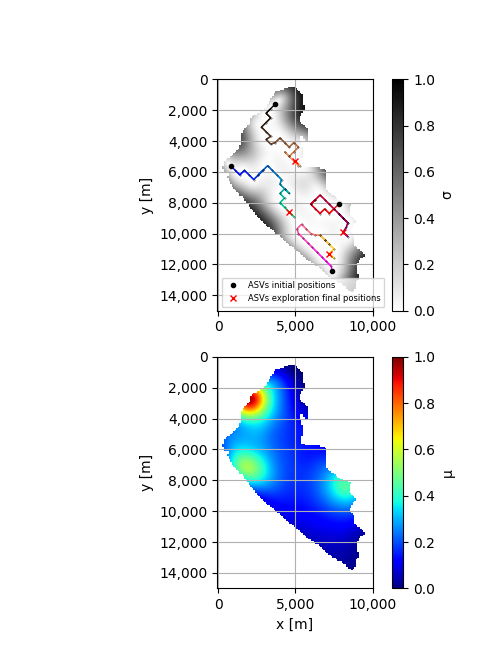
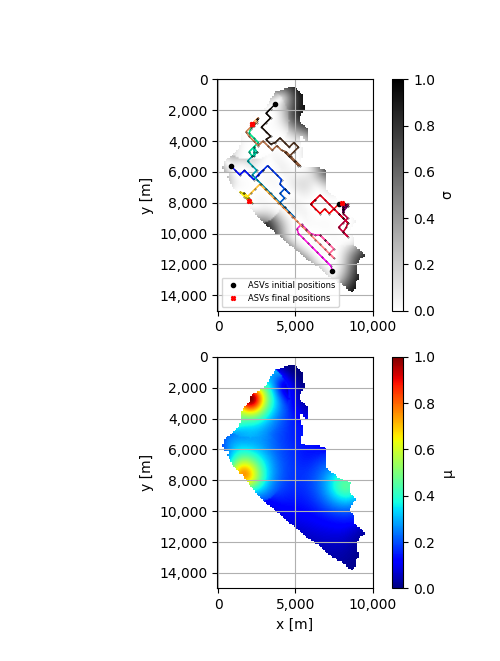
final model

diff --git a/PSO/pso_function.py b/PSO/pso_function.py
@@ -45,8 +45,9 @@ class PSOEnvironment(gym.Env):
 
     def __init__(self, resolution, ys, method, initial_seed, initial_position, vehicles=4, exploration_distance=100,
                  exploitation_distance=200, reward_function='mse', behavioral_method=0, type_error='all_map',
-                 stage="exploration"):
+                 stage='exploration', final_model='samples'):
         self.type_error = type_error
+        self.final_model = final_model
         self.exploration_distance = exploration_distance
         self.exploitation_distance = exploitation_distance
         self.stage = stage
@@ -116,6 +117,8 @@ class PSOEnvironment(gym.Env):
         self.seed = initial_seed
         self.mu = []
         self.sigma = []
+        self.final_mu = []
+        self.final_sigma = []
         self.g = 0
         self.g_exploit = 0
         self.post_array = np.array([1, 1, 1, 1])
@@ -299,6 +302,7 @@ class PSOEnvironment(gym.Env):
         self.x_h = []
         self.y_h = []
         self.stage = "exploration"
+        self.type_error = 'contamination'
         self.coord_centers = []
         self.max_centers_bench = []
         self.x_p = []
@@ -307,6 +311,8 @@ class PSOEnvironment(gym.Env):
         self.max_bench = list()
         self.action_zone_index = list()
         self.fitness = []
+        self.final_mu = []
+        self.final_sigma = []
         self.y_data = []
         self.dict_ = {}
         self.dict_error_peak_explore = {}
@@ -669,7 +675,7 @@ class PSOEnvironment(gym.Env):
 
     def calculate_error(self, dfirts=False):
         if self.type_error == 'all_map':
-            self.error = mean_squared_error(y_true=self.bench_array, y_pred=self.mu)
+            self.error = mean_squared_error(y_true=self.bench_array, y_pred=self.final_mu)
         elif self.type_error == 'peaks':
             if dfirts:
                 for i in range(len(self.dict_centers)):
@@ -1055,7 +1061,56 @@ class PSOEnvironment(gym.Env):
         elif self.stage == "exploitation":
             action = np.array([3.6845, 1.5614, 0, 3.1262])
             self.state, reward, done, dic = self.step_stage_exploitation(action)
+        if done:
+            if self.final_model == 'samples':
+                self.final_gaussian()
+            elif self.final_model == 'action_zone':
+                self.replace_action_zones()
+            self.type_error = 'all_map'
+            self.calculate_error()
+            print("MSE all_map final: ", self.error)
         return self.state, reward, done, {}
+
+    def final_gaussian(self):
+        final_sample_x = copy.copy(self.x_h)
+        final_sample_y = copy.copy(self.y_h)
+        final_fitness = copy.copy(self.fitness)
+        for i in range(len(self.dict_mu)):
+            x = copy.copy(self.dict_sample_x["action_zone%s" % i])
+            y = copy.copy(self.dict_sample_y["action_zone%s" % i])
+            fitness = copy.copy(self.dict_fitness["action_zone%s" % i])
+            for j in range(len(final_sample_x)):
+                for k in range(len(x)):
+                    if final_sample_x[j] == x[k] and final_sample_y[j] == y[k]:
+                        final_fitness[j] = fitness[k]
+                        del x[k]
+                        del y[k]
+                        del fitness[k]
+                        break
+            final_sample_x = [*final_sample_x, *x]
+            final_sample_y = [*final_sample_y, *y]
+            final_fitness = [*final_fitness, *fitness]
+
+        x_a = np.array(final_sample_x).reshape(-1, 1)
+        y_a = np.array(final_sample_y).reshape(-1, 1)
+        x_train = np.concatenate([x_a, y_a], axis=1).reshape(-1, 2)
+        y_train = np.array(final_fitness).reshape(-1, 1)
+
+        self.gpr.fit(x_train, y_train)
+        self.gpr.get_params()
+
+        self.final_mu, self.final_sigma = self.gpr.predict(self.X_test, return_std=True)
+
+    def replace_action_zones(self):
+        self.final_mu = copy.copy(self.mu)
+        self.final_sigma = copy.copy(self.sigma)
+        for i in range(len(self.dict_index)):
+            action_zone_index = copy.copy(self.dict_index["action_zone%s" % i])
+            action_zone_mu = copy.copy(self.dict_mu["action_zone%s" % i])
+            action_zone_sigma = copy.copy(self.dict_sigma["action_zone%s" % i])
+            for j in range(len(action_zone_index)):
+                self.final_mu[action_zone_index[j]] = action_zone_mu[action_zone_index[j]]
+                self.final_sigma[action_zone_index[j]] = action_zone_sigma[action_zone_index[j]]
 
     def data_out(self):
 
@@ -1066,7 +1121,7 @@ class PSOEnvironment(gym.Env):
         return self.X_test, self.secure, self.bench_function, self.grid_min, self.sigma, \
                self.mu, self.error_data, self.it, self.part_ant, self.bench_array, self.grid_or, self.bench_max, \
                self.dict_mu, self.dict_sigma, self.centers, self.part_ant_exploit, self.dict_centers, self.assig_centers, \
-               self.part_ant_explore
+               self.part_ant_explore, self.final_mu, self.final_sigma
 
     def error_value(self):
         return self.error_data

diff --git a/Comparison/BestMDPI.py b/Comparison/BestMDPI.py
@@ -63,7 +63,7 @@ start_time = time.time()
 method = 0
 pso = PSOEnvironment(resolution, ys, method, initial_seed=1000001, initial_position=initial_position, vehicles=4,
                      exploration_distance=100, exploitation_distance=200, reward_function='inc_mse',
-                     type_error='contamination')
+                     type_error='contamination', final_model='action_zone')
 
 # Gaussian process initialization
 
@@ -93,7 +93,7 @@ for i in range(1):
         mean_error.append(np.mean(error_actual))
         n = error_data.shape[0] - 1
     X_test, secure, bench_function, grid_min, sigma, mu, MSE_data, it, part_ant, y_data, grid, bench_max, dict_mu, \
-    dict_sigma, centers, part_ant_exploit, dict_centers, assig_center, part_ant_explore = pso.data_out()
+    dict_sigma, centers, part_ant_exploit, dict_centers, assig_center, part_ant_explore, final_mu, final_sigma = pso.data_out()
     plot = Plots(xs, ys, X_test, secure, bench_function, grid_min, grid)
     #plot.gaussian(mu, sigma, part_ant)
     plot.movement_exploration(mu, sigma, part_ant_explore)
@@ -102,6 +102,8 @@ for i in range(1):
     plot.mu_exploitation(dict_mu, dict_sigma, centers)
     distances = pso.distances_data()
     plot.movement_exploitation(4, dict_mu, dict_sigma, centers, dict_centers, part_ant_exploit, assig_center)
+    plot.plot_classic(final_mu, final_sigma, part_ant)
+
     # if i == 0:
     #   MSE_array = pd.DataFrame(mean_MSE)
     # else:

diff --git a/Environment/contamination_areas.py b/Environment/contamination_areas.py
@@ -10,6 +10,7 @@ class DetectContaminationAreas():
         self.radio = area / vehicles
         self.benchmark = copy.copy(benchmark)
         self.ava = np.array(X_test)
+        self.vehicles = vehicles
 
     def real_peaks(self):
         array_max_x = list()
@@ -62,13 +63,14 @@ class DetectContaminationAreas():
         array_max_x_bench = list()
         array_max_y_bench = list()
         max_bench_list = list()
+        cen = 0
 
         for i in range(len(mean)):
             if mean[i] >= 0.33:
                 array_action_zones.append(mean[i])
                 coordinate_action_zones.append(self.coord[i])
                 bench_az.append(self.benchmark[i])
-        while True:
+        while cen < self.vehicles:
             max_action_zone = max(array_action_zones)
             max_index = array_action_zones.index(max_action_zone)
             max_coordinate = coordinate_action_zones[max_index]
@@ -96,6 +98,7 @@ class DetectContaminationAreas():
                     m += 1
             if len(array_action_zones) == 0:
                 break
+            cen += 1
         center_peaks = np.column_stack((array_max_x, array_max_y))
         center_peaks_bench = np.column_stack((array_max_x_bench, array_max_y_bench))
         for w in range(len(array_max_x)):

diff --git a/Environment/plot.py b/Environment/plot.py
@@ -463,7 +463,7 @@ class Plots():
 
         fig, ax = plt.subplots()
 
-        im3 = ax.imshow(Z_mean.T, interpolation='none', origin='lower', cmap=self.cmap)
+        im3 = ax.imshow(Z_mean.T, interpolation='none', origin='lower', cmap=self.cmap, vmin=0, vmax=100)
         plt.colorbar(im3, ax=ax, label='Contamination [%]', shrink=1.0)
         ax.set_xlabel("x [m]")
         ax.set_ylabel("y [m]")
